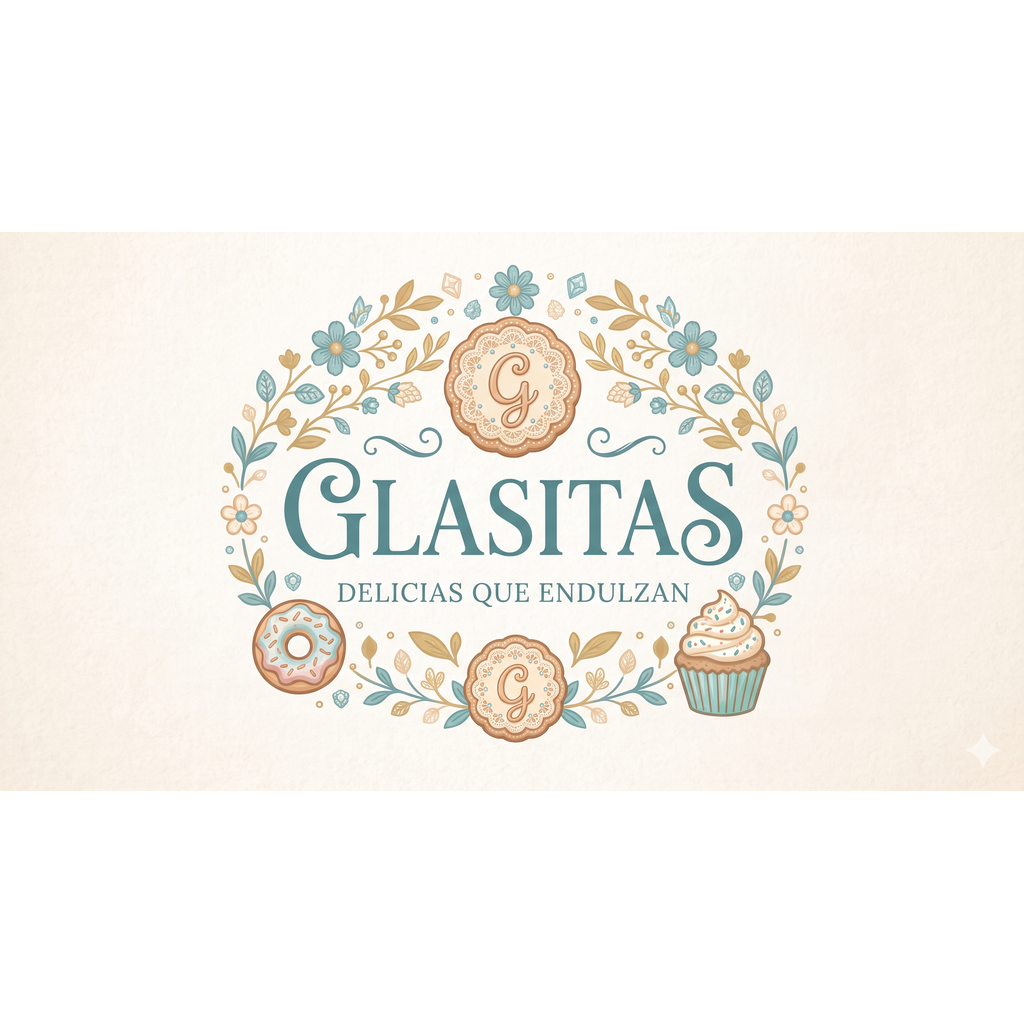
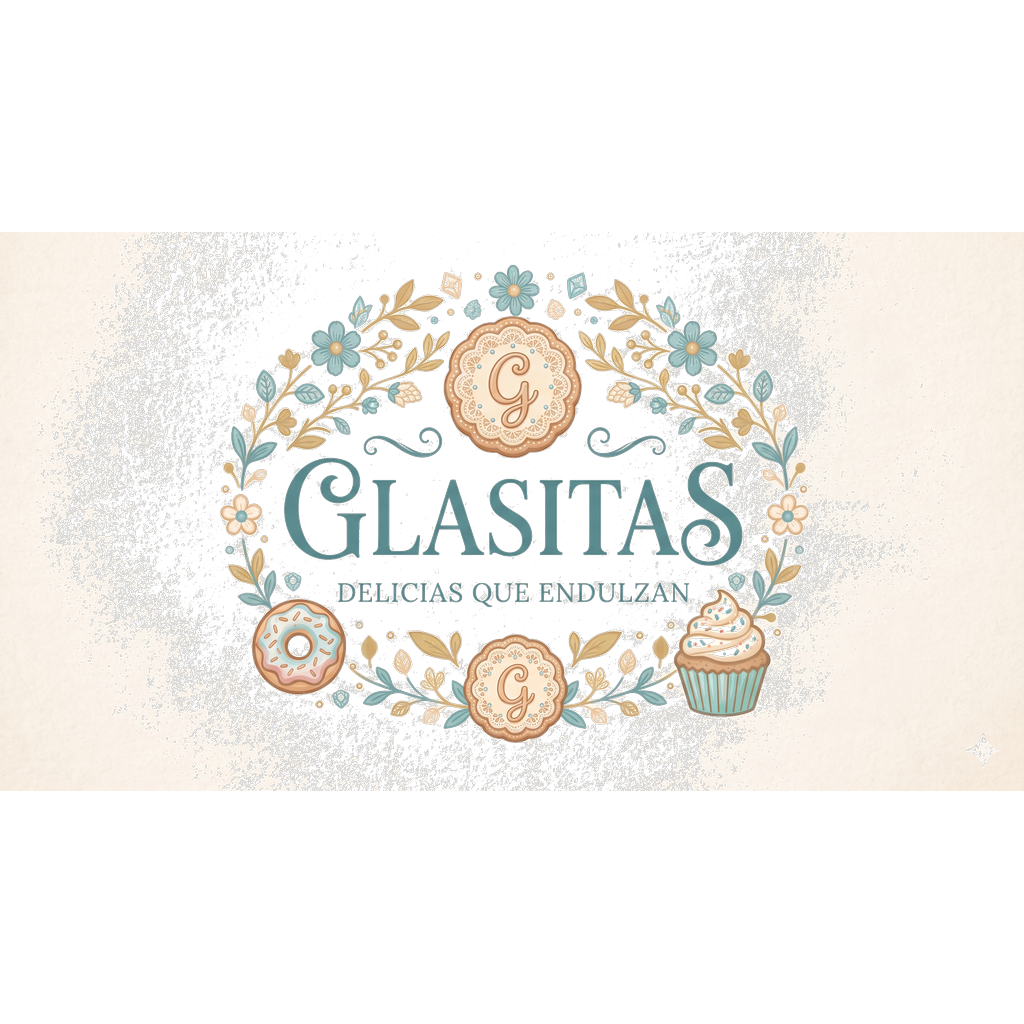
✅ Facebook API reparada + post.js via API + config permanente

diff --git a/AVANCES.md b/AVANCES.md
@@ -44,10 +44,10 @@
 - [x] System User "Glassitas bot" creado (ID: 122094378873384233)
 - [x] Business Manager "Glassitas Publisher" (ID: 989666967381176)
 - [x] `scripts/generar-token-system-user.js` — script para generar token permanente
-- [ ] **PENDIENTE**: Solicitar `pages_manage_posts` via App Review en:
-      https://developers.facebook.com/apps/2931073960575850/app-review/
-- [ ] Después de App Review, ejecutar: `ADMIN_TOKEN="EAA..." node scripts/generar-token-system-user.js`
-- [ ] `scripts/post.js` configurado con token de System User
+- [x] `pages_manage_posts` obtenido exitosamente
+- [x] `scripts/post.js` configurado con Page Token via API (Graph API v19.0)
+- [x] Publicación de texto e imagen funcionando
+- [ ] Configurar System User para token permanente (la app es tipo Games, necesita ser Business)
 - [ ] Publicar manual (primera semana)
 - [ ] `contenido/calendario.json` con schedule
 - [ ] Automatizar publicación con cron/Docker
@@ -83,3 +83,4 @@
 | 25/06/26 | App Glassitas Publisher (ID: 2931073960575850) + System User (122094378873384233) |
 | 25/06/26 | Token generation vía System User FUNCIONA (appsecret_proof) — falta pages_manage_posts en la app |
 | 25/06/26 | 🔴 BLOQUEANTE: Meta eliminó pages_manage_posts para apps nuevas. Requiere App Review. |
+| 25/06/26 | ✅✅✅ API DE FACEBOOK REPARADA! pages_manage_posts concedido. Post via API funcionando. |